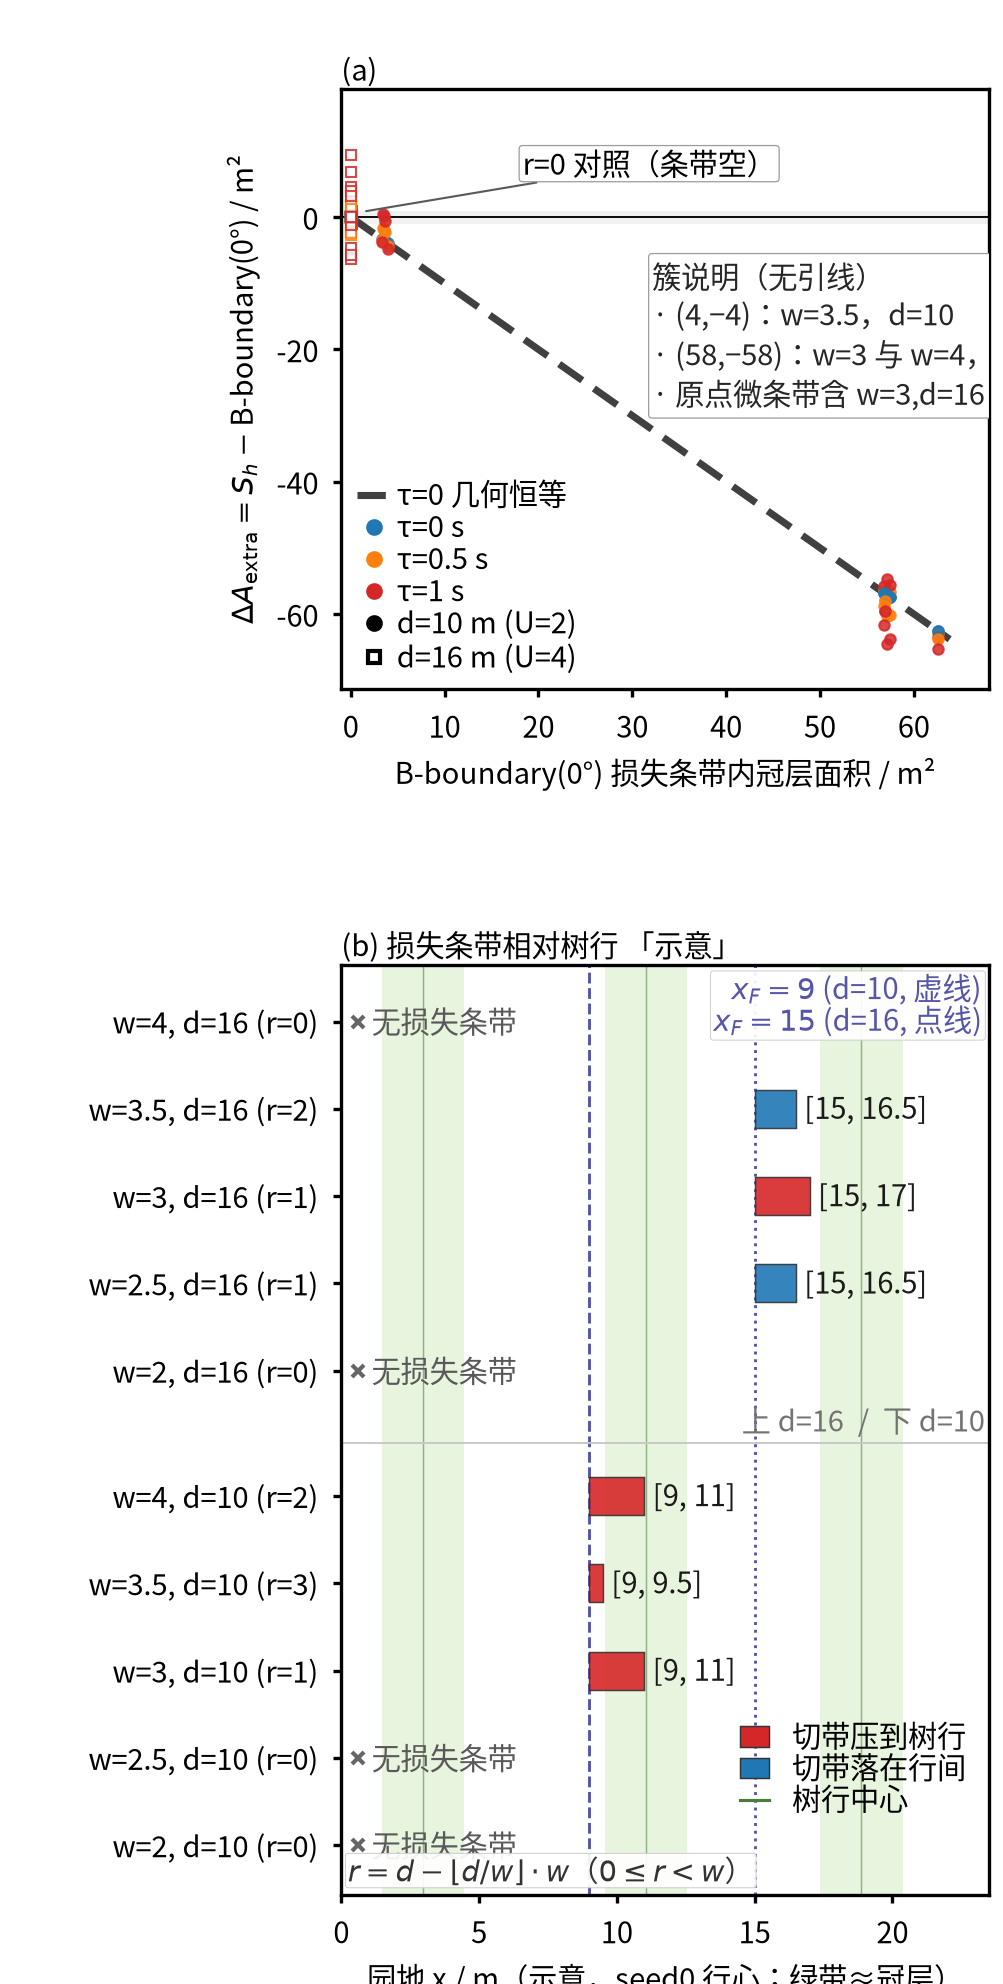
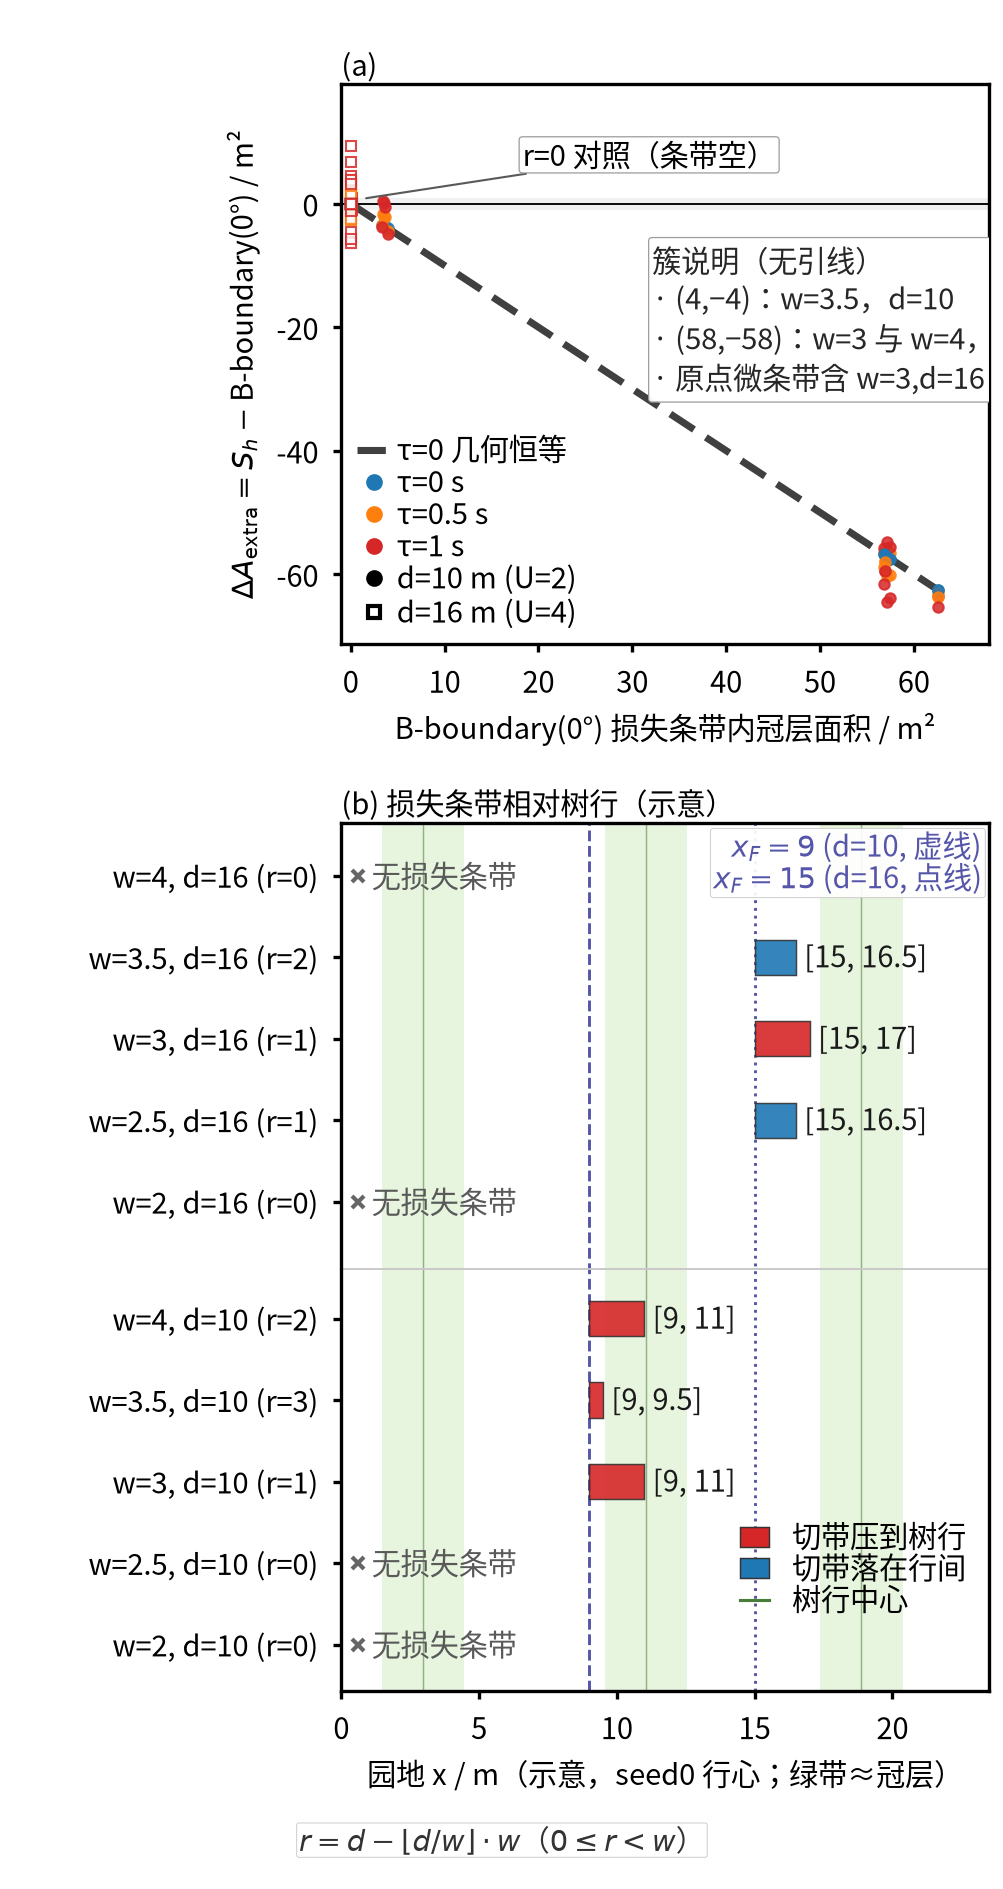
T4 rev3: fig3 layout — unclip xlabel, move r-box, drop separator overlap, title, tighten gap

diff --git a/scripts/fig3_remainder_condition.py b/scripts/fig3_remainder_condition.py
@@ -25,7 +25,7 @@ PNG = OUT_DIR / "fig3_remainder_condition.png"
 PDF = OUT_DIR / "fig3_remainder_condition.pdf"
 
 MM = 1 / 25.4
-FIG_W_MM, FIG_H_MM = 85.0, 168.0
+FIG_W_MM, FIG_H_MM = 85.0, 160.0
 FIG_W, FIG_H = FIG_W_MM * MM, FIG_H_MM * MM
 LW, LW_AXIS, FS, PHASE, DPI = 1.7, 0.8, 7, 1.0, 300
 
@@ -229,7 +229,6 @@ def draw_b(ax, table_rows):
 
     if gap_y is not None:
         ax.axhline(gap_y, color="0.78", lw=0.45, zorder=1)
-        ax.text(x_hi - 0.15, gap_y + 0.08, "上 d=16  /  下 d=10", fontsize=FS, ha="right", va="bottom", color="0.45")
 
     ax.set_yticks(yticks)
     ax.set_yticklabels(ylabels, fontsize=FS)
@@ -240,7 +239,7 @@ def draw_b(ax, table_rows):
     ax.set_xlim(x_lo, x_hi)
     ax.set_ylim(-0.65, y - 0.4)
     ax.set_xlabel("园地 x / m（示意，seed0 行心；绿带≈冠层）", fontsize=FS)
-    ax.set_title("(b) 损失条带相对树行 「示意」", fontsize=FS, loc="left", pad=2)
+    ax.set_title("(b) 损失条带相对树行（示意）", fontsize=FS, loc="left", pad=2)
 
     ax.text(
         0.99,
@@ -253,13 +252,13 @@ def draw_b(ax, table_rows):
         color="#5555aa",
         bbox=dict(boxstyle="round,pad=0.1", fc="white", ec="0.8", lw=0.25, alpha=0.92),
     )
-    ax.text(
-        0.01,
-        0.01,
+    ax.figure.text(
+        0.5,
+        0.018,
         r"$r=d-\lfloor d/w\rfloor\cdot w$（$0\leq r<w$）",
-        transform=ax.transAxes,
+        transform=ax.figure.transFigure,
         fontsize=FS,
-        ha="left",
+        ha="center",
         va="bottom",
         color="0.2",
         bbox=dict(boxstyle="round,pad=0.08", fc="white", ec="0.8", lw=0.25, alpha=0.92),
@@ -296,12 +295,12 @@ def main():
     OUT_DIR.mkdir(parents=True, exist_ok=True)
     pts, table_rows = load_points()
     fig, (ax_a, ax_b) = plt.subplots(
-        2, 1, figsize=(FIG_W, FIG_H), gridspec_kw={"height_ratios": [1.0, 1.55], "hspace": 0.36}
+        2, 1, figsize=(FIG_W, FIG_H), gridspec_kw={"height_ratios": [1.0, 1.55], "hspace": 0.25}
     )
     draw_a(ax_a, pts)
     draw_b(ax_b, table_rows)
     # 左侧为单行 y 标签留宽，防止自动折行
-    fig.subplots_adjust(left=0.34, right=0.985, bottom=0.045, top=0.955, hspace=0.40)
+    fig.subplots_adjust(left=0.34, right=0.985, bottom=0.105, top=0.955, hspace=0.25)
     fig.savefig(PNG, dpi=DPI)
     fig.savefig(PDF)
     plt.close(fig)
